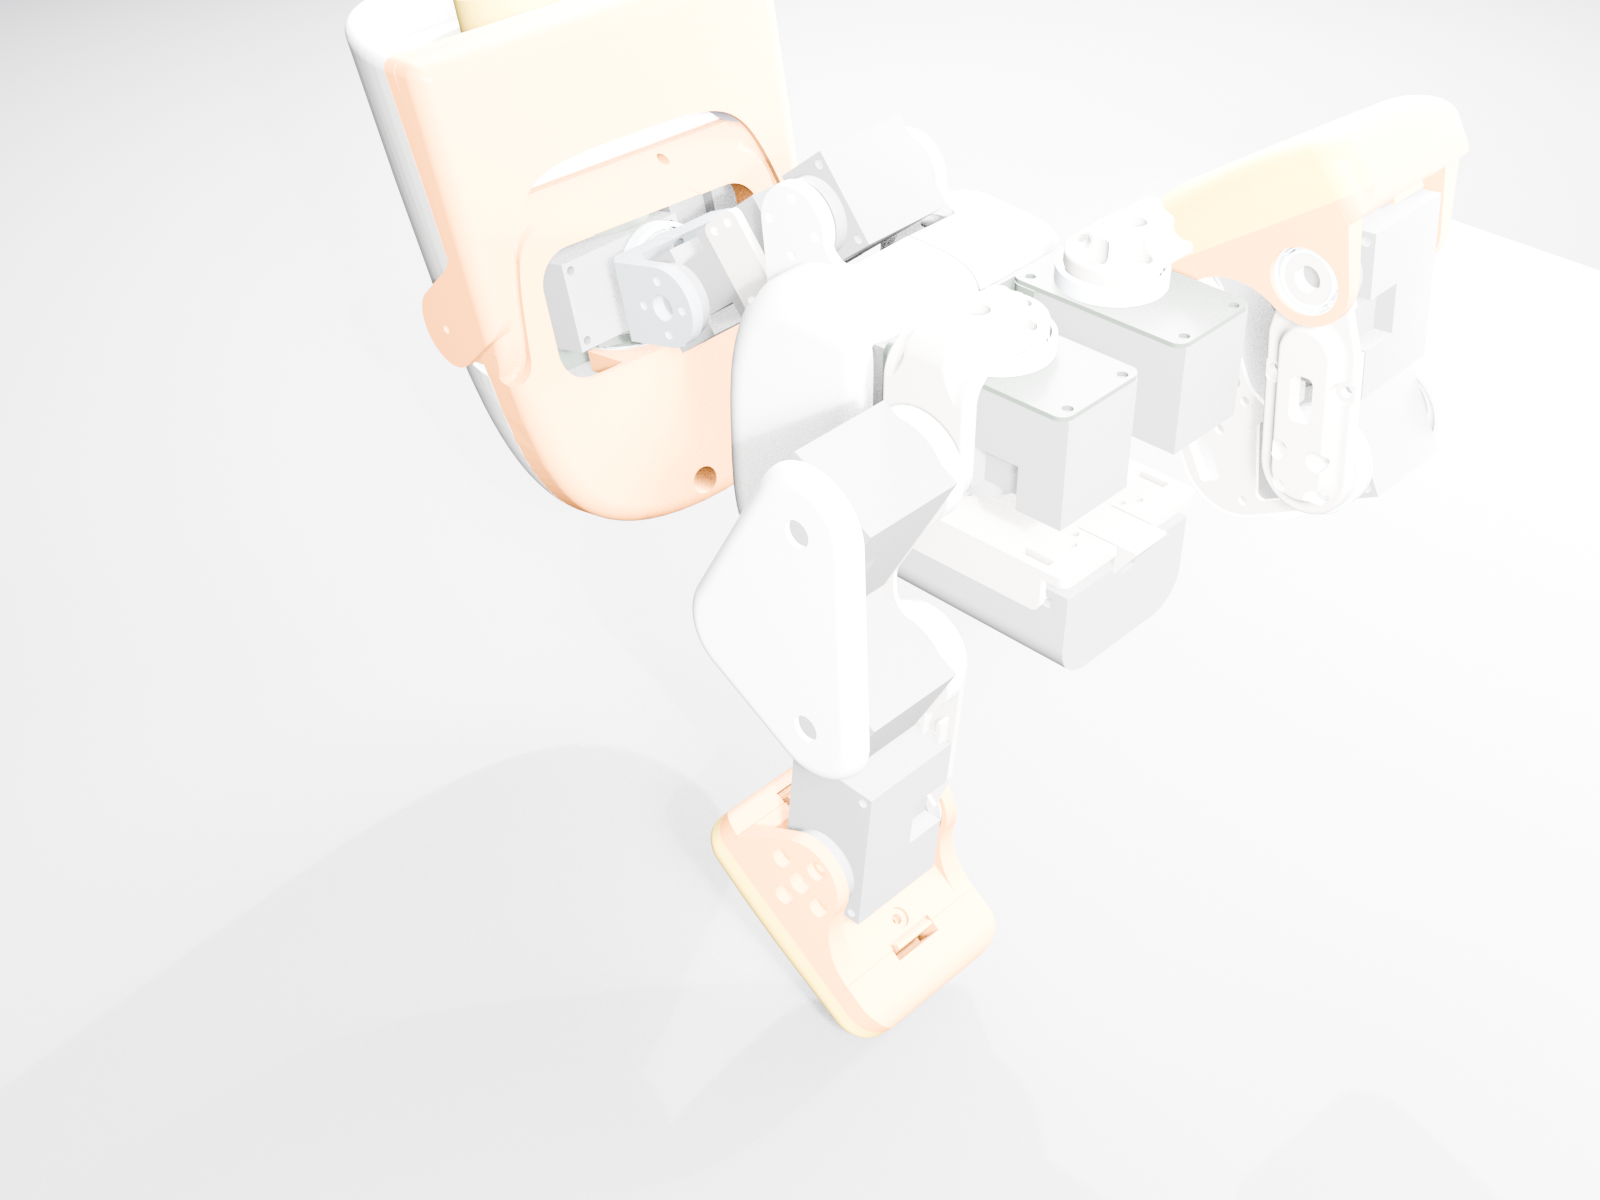
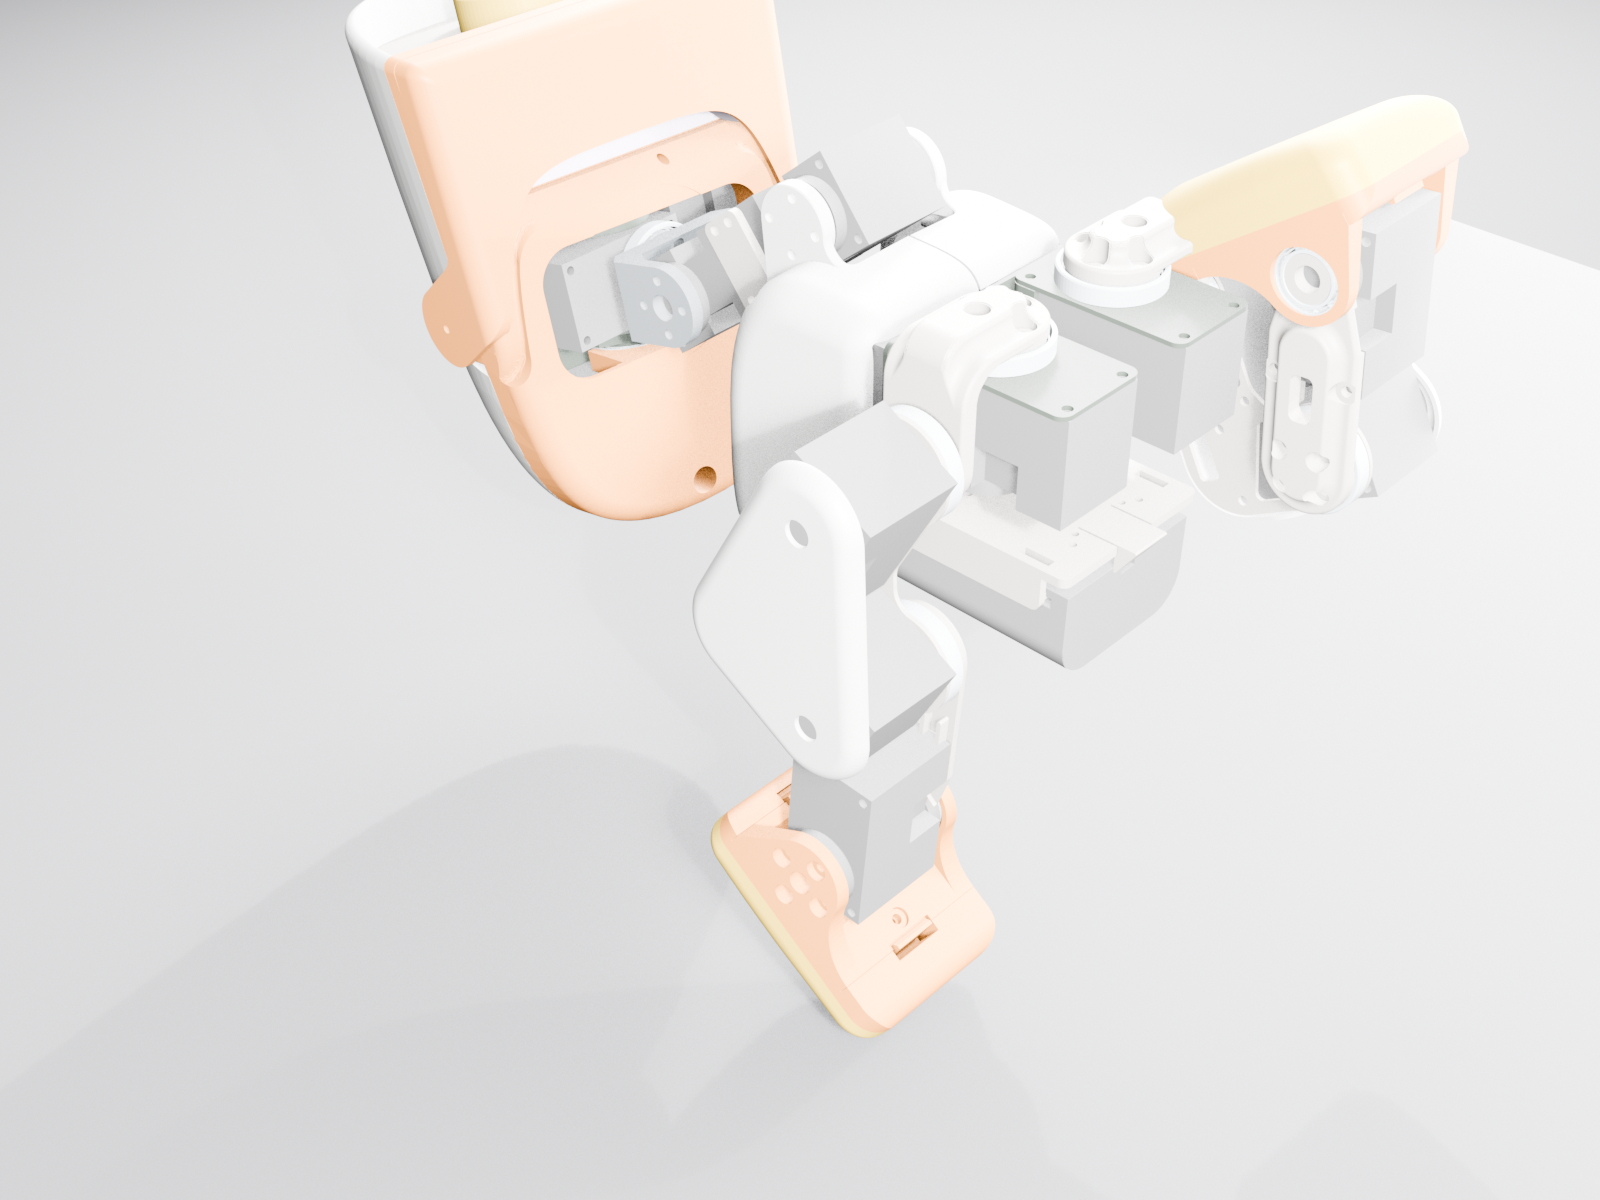
Re-render get-up pose with corrected exposure

diff --git a/design/microduck-reference-v0/cad/build_pose.py b/design/microduck-reference-v0/cad/build_pose.py
@@ -137,9 +137,9 @@ bpy.context.scene.world = world
 world.use_nodes = True
 bg = next(n for n in world.node_tree.nodes if n.type == "BACKGROUND")
 bg.inputs[0].default_value = (0.02, 0.02, 0.025, 1)
-bg.inputs[1].default_value = 0.3
+bg.inputs[1].default_value = 0.25
 
-for loc, energy in [((0.4, -0.4, 0.5), 90), ((-0.4, 0.35, 0.4), 55), ((0.0, 0.3, 0.15), 30)]:
+for loc, energy in [((0.4, -0.4, 0.5), 45), ((-0.4, 0.35, 0.4), 28), ((0.0, 0.3, 0.15), 15)]:
     d = bpy.data.lights.new("a", "AREA")
     d.energy = energy
     d.shape = "DISK"
